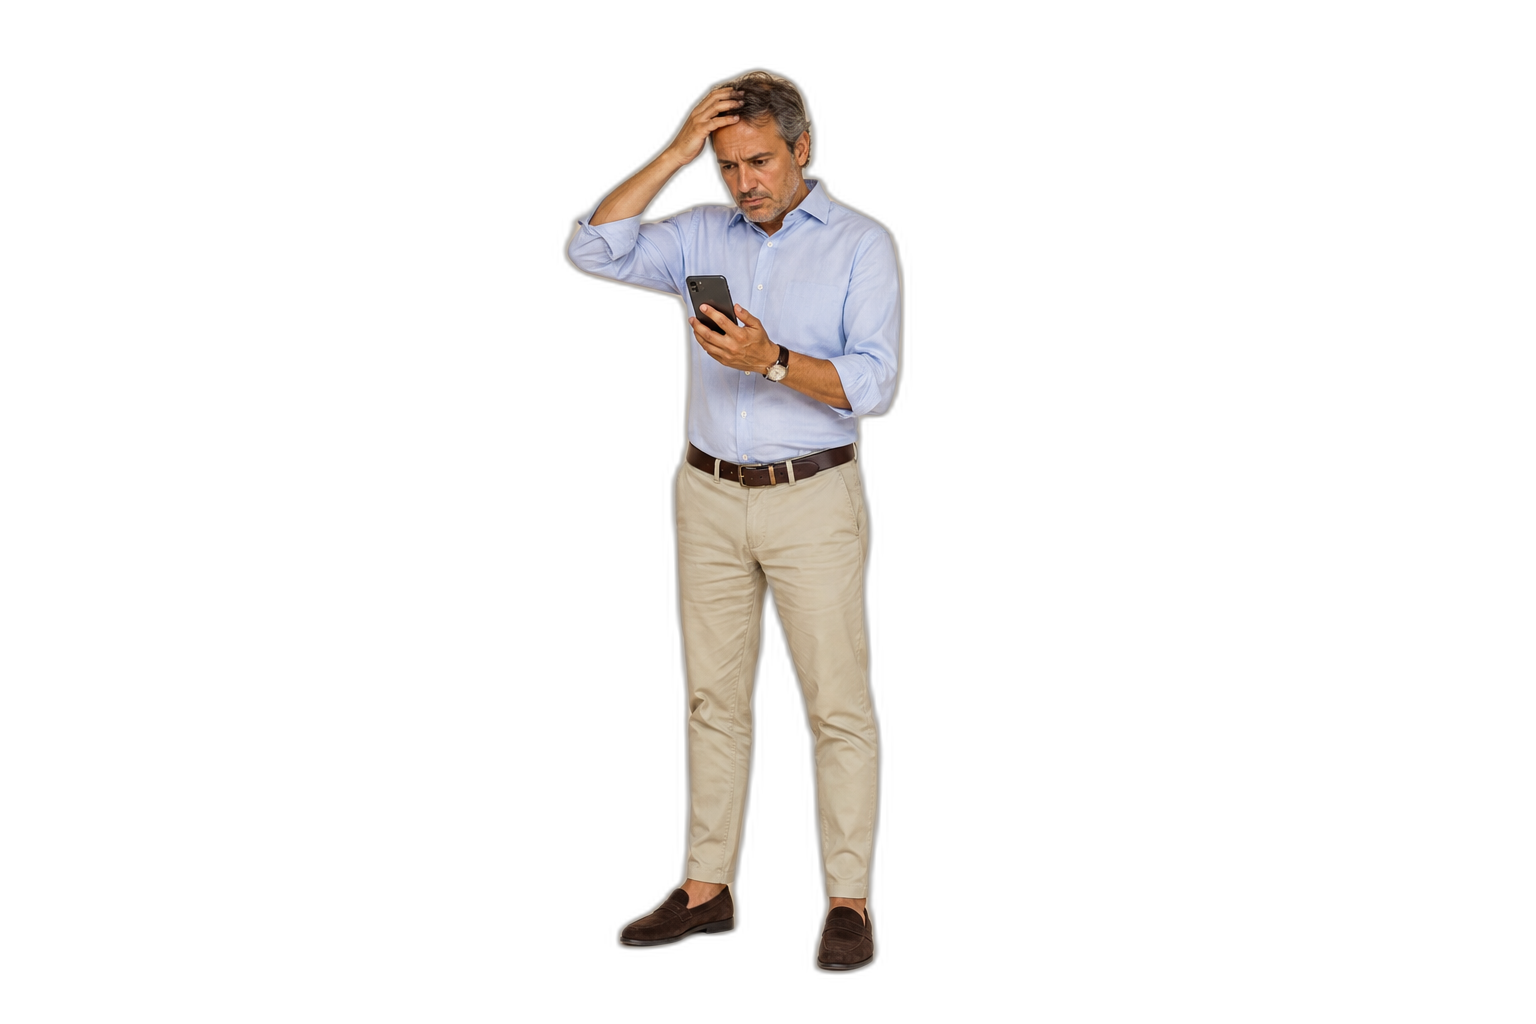
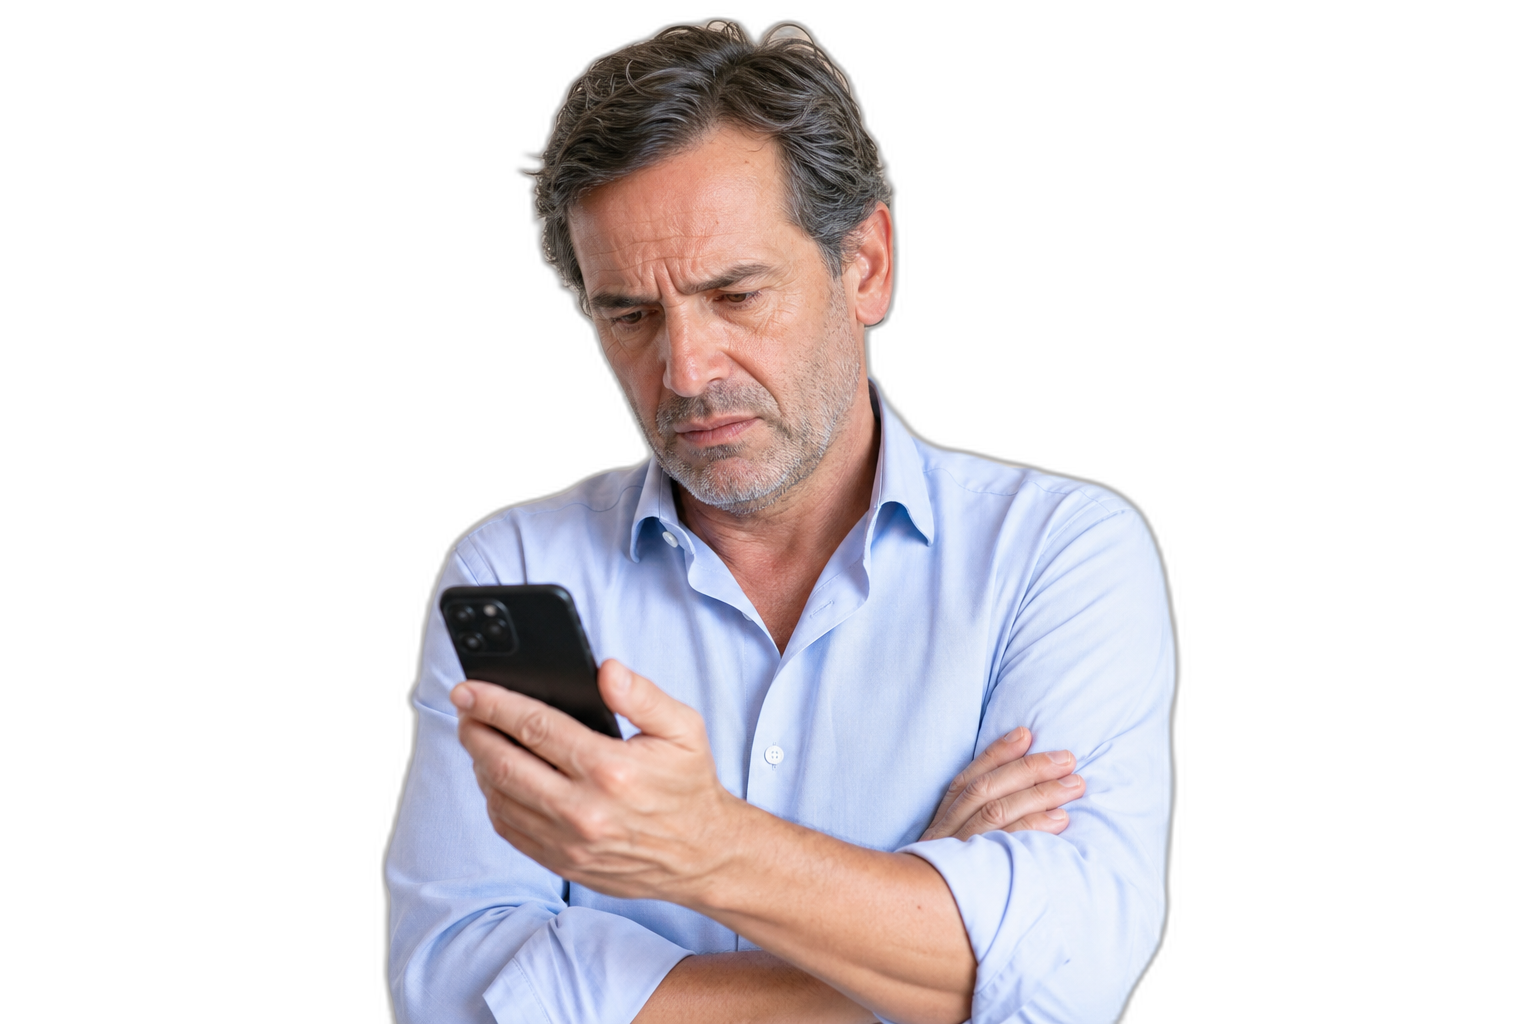
fix: imprenditori mezzo busto più grandi nella sidebar servizi.

diff --git a/src/components/ServiziTabCard.tsx b/src/components/ServiziTabCard.tsx
@@ -71,12 +71,12 @@ export default function ServiziTabCard({
               </div>
             </Reveal>
 
-            <div className="relative mt-6 min-h-[120px] flex-1 md:min-h-[160px]">
+            <div className="relative mt-4 min-h-[220px] flex-1 sm:min-h-[260px] lg:min-h-[300px]">
               <Image
                 src={imageSrc}
                 alt={imageAlt}
                 fill
-                className="pointer-events-none object-contain object-bottom"
+                className="pointer-events-none object-contain object-bottom scale-[1.18] origin-bottom"
                 sizes="(max-width: 1024px) 100vw, 400px"
               />
             </div>
